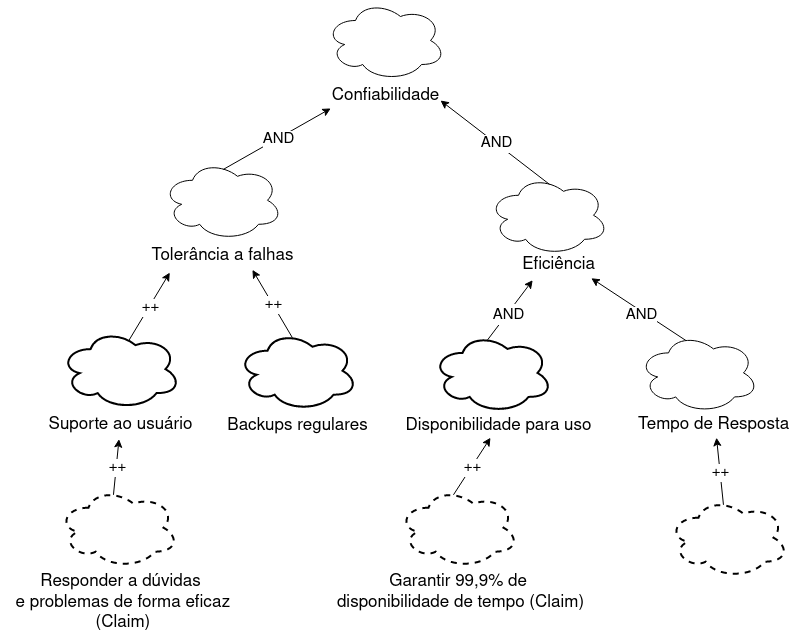
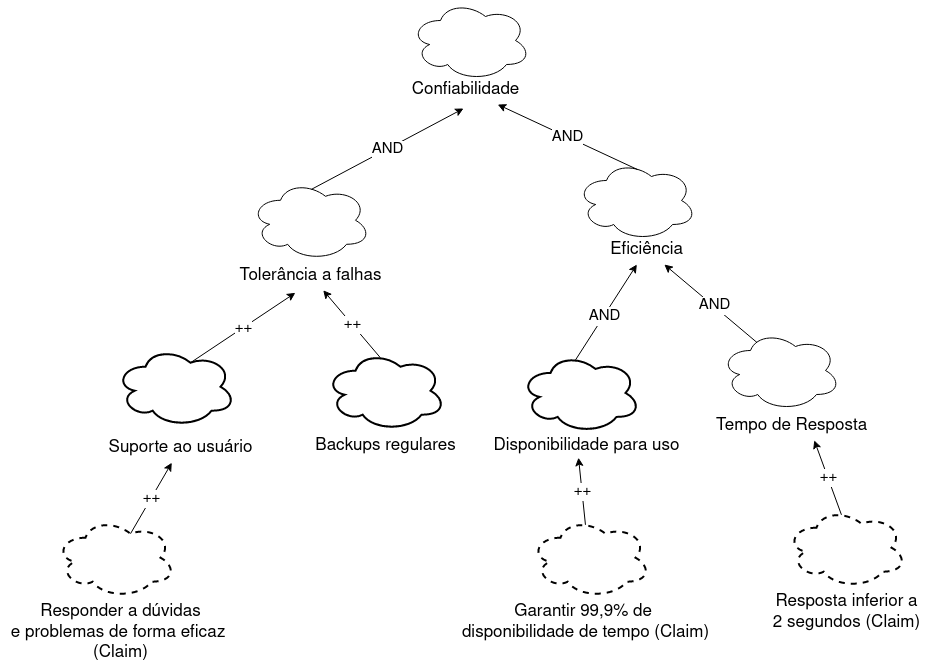
[FIX]: correcao completa em NFR parte maduB

diff --git a/docs/modelagem/agil/nfr.md b/docs/modelagem/agil/nfr.md
@@ -266,6 +266,8 @@ Fonte: BARBOSA, maria. 2023.
 
 ## Cartões de especificação Definidos
 
+### Cartões de especificação do NFR01 - Usabilidade
+
 <center>
 
 Tabela 3 - Cartão de especificação da Usabilidade
@@ -304,20 +306,139 @@ Fonte: Maria Eduarda Marques. 2023.
 
 </center>
 
+### Cartões de especificação do NFR02 - Confiabilidade
+
 <center>
 
-Tabela 5 - Cartão de especificação de Confiabilidade 
+Tabela X - Cartão de especificação de Confiabilidade 
 
-| **Nº Requisito: 3** (  )  <br> **Classificação:**   | |
+| **Nº Requisito: 3**  <a id="REF1" href="#anchor_c1">(CONF01)</a>   <br> **Classificação:** Confiabilidade/Disponibilidade para uso  | |
 | ------------------------ | --------- |
-| **Descrição:** |  |
-| **Justificativa:** | |
-| **Origem:** |  |
-| **Critério de aceitação:** | |
+| **Descrição:** | Garantir 99,9% de disponibilidade de tempo, principalmente durante períodos eleitorais, evitando interrupções não programadas. |
+| **Justificativa:** | É utilizado esse requisito, pois durante os momentos de alta demanda, interrupções não programadas podem comprometer a transparência do aplicativo e prejudicar a confiança do público.  |
+| **Origem:** | Especificação Suplementar |
+| **Critério de aceitação:** | Durante testes, o sistema deve demonstrar uma disponibilidade mínima de 99,9% durante períodos simulados de alta demanda, como os observados em períodos eleitorais. |
 | **Dependência:** | Nenhum |
-| **Prioridade:** |  |
+| **Prioridade:** | 10 |
 | **Conflitos:** | Nenhum |
-| **História:** | /11/2023 |
+| **História:** | 05/11/2023 |
+
+Fonte: BARBOSA, maria. 2023.
+
+</center>
+
+<center>
+
+Tabela X - Cartão de especificação de Confiabilidade 
+
+| **Nº Requisito: 3**  <a id="REF2" href="#anchor_c2">(CONF02)</a>   <br> **Classificação:**  Confiabilidade/Tolerância a falhas | |
+| ------------------------ | --------- |
+| **Descrição:** | Implementar backups regulares e procedimentos de recuperação eficazes para evitar perda significativa de dados em falhas inesperadas. |
+| **Justificativa:** | É fundamental para garantir a preservação e a disponibilidade contínua dos dados, prevenindo perdas catastróficas e assegurando a rápida recuperação em casos de falhas ou eventos inesperados. |
+| **Origem:** | Especificação Suplementar |
+| **Critério de aceitação:** |  O sistema do aplicativo deve ser capaz de recuperar dados a partir de backups recentes em um tempo estabelecido. <br> Os backups devem ser realizados automaticamente em intervalos regulares conforme definido na política de backup, garantindo a retenção de dados |
+| **Dependência:** | Nenhum |
+| **Prioridade:** | 10 |
+| **Conflitos:** | Nenhum |
+| **História:** | 05/11/2023 |
+
+Fonte: BARBOSA, maria. 2023.
+
+</center>
+
+<center>
+
+Tabela X - Cartão de especificação de Confiabilidade 
+
+| **Nº Requisito: 3**  <a id="REF3" href="#anchor_d1">(DES01)</a>  <br> **Classificação:** Confiabilidade/Tempo de resposta  | |
+| ------------------------ | --------- |
+| **Descrição:** | Manter um tempo de resposta inferior a 2 segundos para interações do usuário, assegurando uma experiência ágil. |
+| **Justificativa:** | É essencial para garantir uma experiência de usuário ágil, favorecendo a interação contínua e minimizando a frustração com possíveis atrasos, mantendo uma confiabilidade no aplicativo. |
+| **Origem:** | Especificação Suplementar |
+| **Critério de aceitação:** | Deve demonstrar um tempo de resposta médio para interações do usuário inferior a 2 segundos, assegurando uma experiência fluida. |
+| **Dependência:** | Nenhum |
+| **Prioridade:** | 10 |
+| **Conflitos:** | Nenhum |
+| **História:** | 05/11/2023 |
+
+Fonte: BARBOSA, maria. 2023.
+
+</center>
+
+<center>
+
+Tabela X - Cartão de especificação de Confiabilidade 
+
+| **Nº Requisito: 3**  <a id="REF4" href="#anchor_s3">(SUP03)</a> <br> **Classificação:** Confiabilidade/Suporte ao usuário  | |
+| ------------------------ | --------- |
+| **Descrição:** | No sistema deve haver um plano de suporte ao usuário para responder a dúvidas e problemas de forma eficaz. |
+| **Justificativa:** | Um plano de suporte eficaz fortalece a confiabilidade do sistema ao garantir respostas rápidas e soluções para problemas, assegurando a continuidade e a confiança dos usuários na plataforma. |
+| **Origem:** | Especificação Suplementar |
+| **Critério de aceitação:** | As consultas e problemas reportados pelos usuários devem ser respondidos e resolvidos, garantindo um plano de suporte eficaz. |
+| **Dependência:** | Nenhum |
+| **Prioridade:** | 8 |
+| **Conflitos:** | Nenhum |
+| **História:** | 05/11/2023 |
+
+Fonte: BARBOSA, maria. 2023.
+
+</center>
+
+
+## Cartões de especificação do NFR03 - Segurança
+
+<center>
+
+Tabela X - Cartão de especificação de Segurança 
+
+| **Nº Requisito: 3**  <a id="REF5" href="#anchor_c3">CONF03</a> <br> **Classificação:** Segurança/Proteção dos dados  | |
+| ------------------------ | --------- |
+| **Descrição:** | O aplicativo deve oferecer segurança ao usuário, com a proteção nos dados, utilizando etapas de segurança, como por exemplo: login por meio da biometria digital. |
+| **Justificativa:** | Ajuda na proteção dos dados do usuário, promovendo uma experiência mais segura e confiável no aplicativo. |
+| **Origem:** | Especificação Suplementar |
+| **Critério de aceitação:** | Deve garantir a autenticação, atestando a proteção dos dados do usuário contra acessos não autorizados. <br> Deve haver etapas de segurança.|
+| **Dependência:** | Nenhum |
+| **Prioridade:** | 10 |
+| **Conflitos:** | Nenhum |
+| **História:** | 05/11/2023 |
+
+Fonte: BARBOSA, maria. 2023.
+
+</center>
+
+<center>
+
+Tabela X - Cartão de especificação de Segurança 
+
+| **Nº Requisito: 3**  <a id="REF6" href="#anchor_c4">CONF04</a> <br> **Classificação:** Segurança/Proteção dos dados  | |
+| ------------------------ | --------- |
+| **Descrição:** | O usuário deve poder alterar os seus dados pessoais caso desejar. |
+| **Justificativa:** | Permitir que o usuário altere seus dados pessoais promove autonomia, controle e conformidade com regulamentações de privacidade, garantindo uma experiência personalizada e transparente reforçando a confiabilidade no aplicativo. |
+| **Origem:** | Especificação Suplementar |
+| **Critério de aceitação:** | deve permitir que o usuário modifique suas informações pessoais de forma intuitiva e segura, refletindo as atualizações realizadas. |
+| **Dependência:** | Nenhum |
+| **Prioridade:** | 10 |
+| **Conflitos:** | Nenhum |
+| **História:** | 05/11/2023 |
+
+Fonte: BARBOSA, maria. 2023.
+
+</center>
+
+<center>
+
+Tabela X - Cartão de especificação de Segurança 
+
+| **Nº Requisito: 3**  <a id="REF7" href="#anchor_c5">CONF05</a> <br> **Classificação:** Segurança/Autenticidade dos documentos  | |
+| ------------------------ | --------- |
+| **Descrição:** | O aplicativo deve oferecer segurança ao usuário, em relação aos dados emitidos nos documentos, certificando e garantindo que estão corretos. |
+| **Justificativa:** | Assegurar a segurança dos dados presentes nos documentos do usuário é crucial para garantir a precisão, autenticidade e integridade das informações, fortalecendo a confiabilidade e a credibilidade do aplicativo. |
+| **Origem:** | Especificação Suplementar |
+| **Critério de aceitação:** | Deve ser verificável e precisamente certificar a exatidão dos dados presentes nos documentos dos usuários, mantendo sua integridade e assegurando proteção contra manipulações não autorizadas. |
+| **Dependência:** | Nenhum |
+| **Prioridade:** | 10 |
+| **Conflitos:** | Nenhum |
+| **História:** | 05/11/2023 |
 
 Fonte: BARBOSA, maria. 2023.
 
@@ -346,3 +467,4 @@ Fonte: BARBOSA, maria. 2023.
 | 1.6  | 06/11/2023  | Adicionando conteúdos nos tópicos contidos nos NFRs de Confiabilidade e segurança além do tópico de requisitos utilizados | [Maria Barbosa](https//github.com/Madu01) | [João Victor](https//github.com/jvcostta) e [Mateus Orlando](https//github.com/MateusPy) |
 | 1.7  | 06/11/2023  | Arrumando rotas das imagens | [Mateus Orlando](https//github.com/MateusPy) e [João Victor](https//github.com/jvcostta) | [Esther Sena](https://github.com/esmsena) |
 | 1.8 | 02/11/2023 | Correção em metodologia, adicionando novas imagens em NFR02(sem impactos) e NFR03(sem impactos e com impactos), atualização em requisitos não funcionais utilizados |  [Maria Barbosa](https://github.com/Madu01)  | [João Costa ](https://github.com/jvcostta) |
+| 1.9 | 05/11/2023 | Correção em cartões de especificação de confiabilidade e segurança e correção na imagem do SIG sem impacto de confiabilidade |  [Maria Barbosa](https://github.com/Madu01)  | [João Costa ](https://github.com/jvcostta) |
